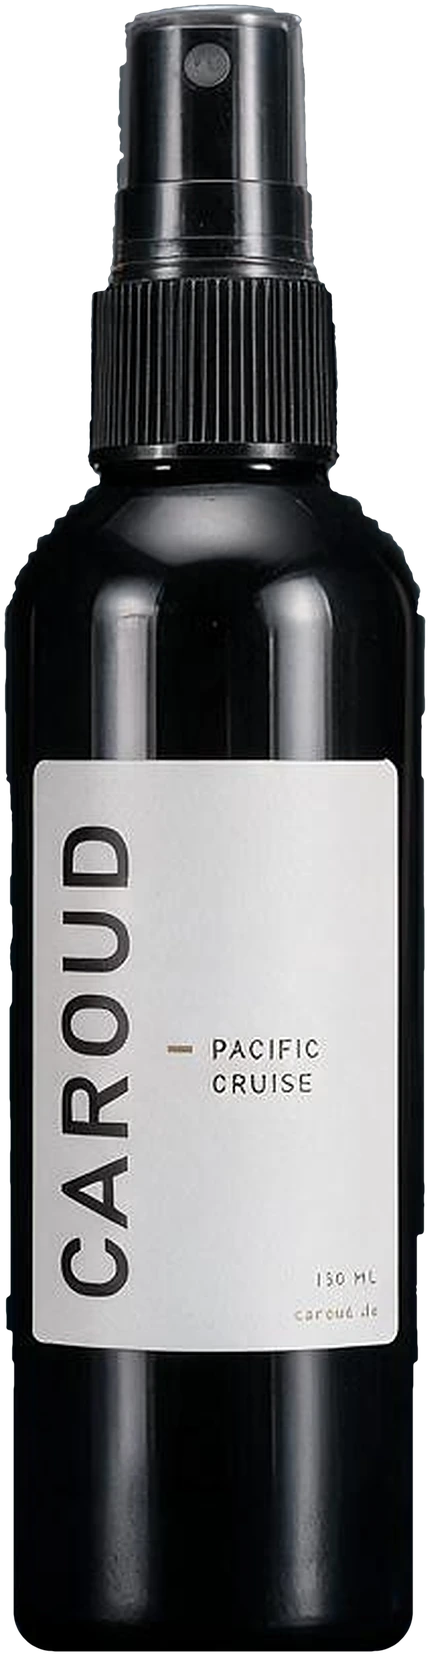
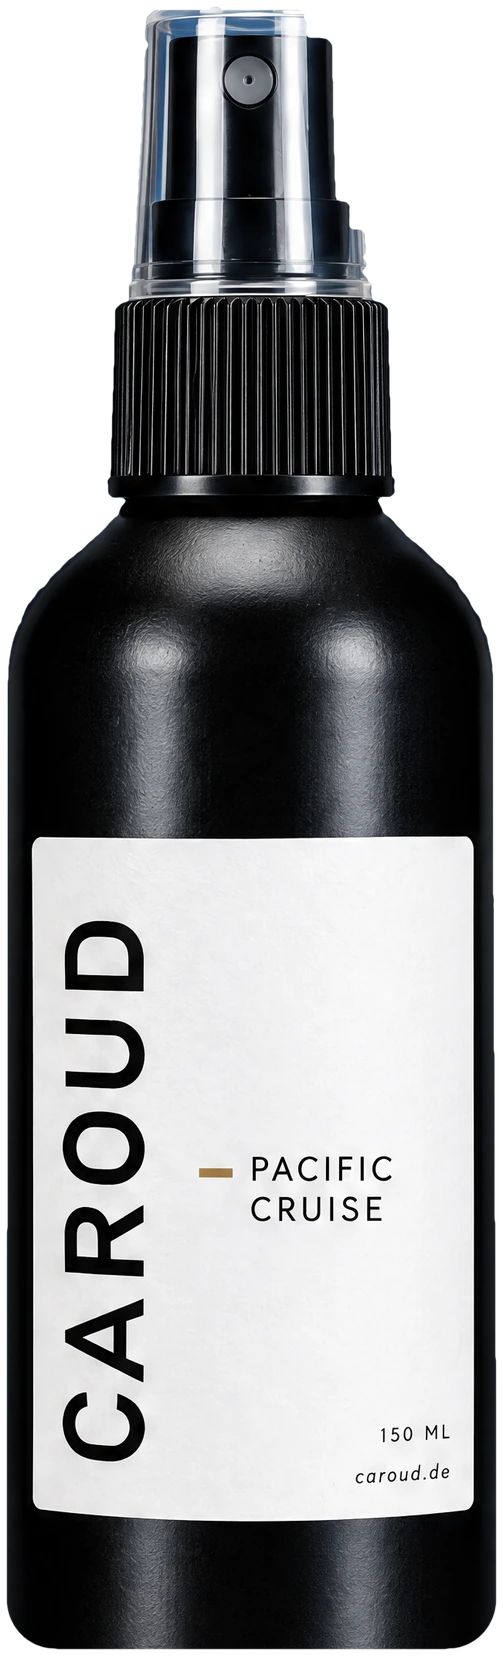
Pacific Cruise: neues Studiofoto in Hero, Duft-Karte und Galerie (v77)
Claude-Session: https://claude.ai/code/session_01FWAFBrrQYUhS2XwshSf5J4

diff --git a/css/style.css b/css/style.css
@@ -1541,7 +1541,7 @@ button { font-family: inherit; }
   display: grid;
   grid-template-columns: 1fr 1fr;
   gap: 0.7rem 1rem;
-  margin: 0 0 1.5rem;
+  margin: 0 0 2rem;
   padding: 1rem 1.1rem;
   background: #f1f1ef;
 }
@@ -1978,7 +1978,7 @@ body.pdp-aktiv .site-header {
 .product-media .quick-add { z-index: 2; }
 .pdp-art.has-photo { padding: 0; min-height: 0; display: block; background: none; }
 .pdp-stage {
-  aspect-ratio: 1 / 1; border-radius: 6px; overflow: hidden;
+  aspect-ratio: 1 / 1; border-radius: 6px; overflow: hidden; touch-action: pan-y;
   display: flex; align-items: center; justify-content: center; background: #0f1a26;
 }
 .pdp-stage .pdp-photo { width: 100%; height: 100%; object-fit: cover; display: block; }
@@ -2001,7 +2001,7 @@ body.pdp-aktiv .site-header {
   content: ""; position: absolute; left: 11px; top: 8px;
   border-style: solid; border-width: 6px 0 6px 9px; border-color: transparent transparent transparent #fff;
 }
-.pyramide { margin: 1rem 0 0; display: grid; gap: 0.45rem; }
+.pyramide { margin: 1rem 0 1.4rem; display: grid; gap: 0.45rem; }
 .pyramide div { display: grid; grid-template-columns: 6.5rem 1fr; gap: 0.6rem; font-size: 0.86rem; }
 .pyramide dt { font-weight: 500; letter-spacing: 0.12em; text-transform: uppercase; font-size: 0.66rem; color: #777; padding-top: 0.2rem; }
 .pyramide dd { margin: 0; color: #333; }

diff --git a/index.html b/index.html
@@ -30,7 +30,7 @@
   <!-- Überschriftenschrift vorladen, damit der Hero-Titel nicht erst in Georgia aufblitzt -->
   <link rel="preload" href="fonts/playfair-400.woff2" as="font" type="font/woff2" crossorigin>
   <link rel="preload" href="fonts/inter-400.woff" as="font" type="font/woff" crossorigin>
-  <link rel="stylesheet" href="css/style.css?v=63">
+  <link rel="stylesheet" href="css/style.css?v=64">
 
   <!-- Strukturierte Daten für Google. Produkt-Markup fehlt bewusst,
        solange keine echten Preise hinterlegt sind. -->
@@ -521,7 +521,7 @@
   <!-- Toast -->
   <div class="toast" id="toast" hidden></div>
 
-  <script src="js/products.js?v=71"></script>
-  <script src="js/main.js?v=64"></script>
+  <script src="js/products.js?v=72"></script>
+  <script src="js/main.js?v=66"></script>
 </body>
 </html>

diff --git a/js/main.js b/js/main.js
@@ -255,7 +255,7 @@ function rgba(hex, a) {
 const heroArt = document.getElementById("heroArt");
 if (heroArt) {
   heroArt.innerHTML =
-    `<div class="bottle-wrap"><img class="hero-bottle" src="img/hero-flasche.webp?v=2" alt="Caroud Duftspray Pacific Cruise" width="440" height="1656" fetchpriority="high"></div>`;
+    `<div class="bottle-wrap"><img class="hero-bottle" src="img/hero-flasche.webp?v=3" alt="Caroud Duftspray Pacific Cruise" width="440" height="1656" fetchpriority="high"></div>`;
 }
 
 // ---------- Die sieben Düfte ----------

diff --git a/js/products.js b/js/products.js
@@ -16,7 +16,7 @@
 // Bilder: die gedruckten Etiketten, gerendert aus den Druck-PDFs
 // (img/produkte/<typ>-<duft>.webp). Ohne img zeichnet main.js die Ersatzgrafik.
 // Version an Bild-URLs, damit Browser nach Etikett-Updates nicht alte Bilder aus dem Cache zeigen
-const ASSET_V = "49";
+const ASSET_V = "50";
 
 const CATEGORIES = [
   { name: "Duftsprays", type: "spray", color: "#111111", img: "img/produkte/spray-pacific-cruise.webp?v=" + ASSET_V },
